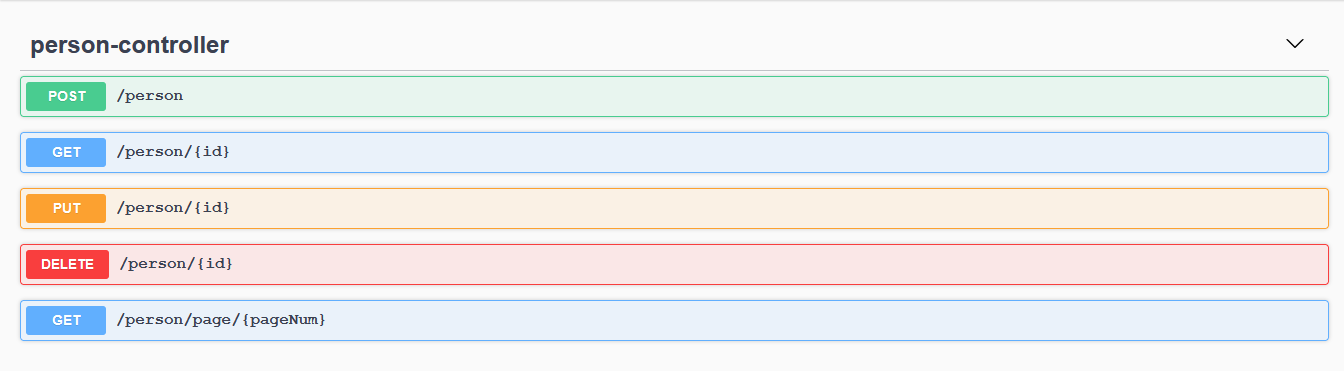
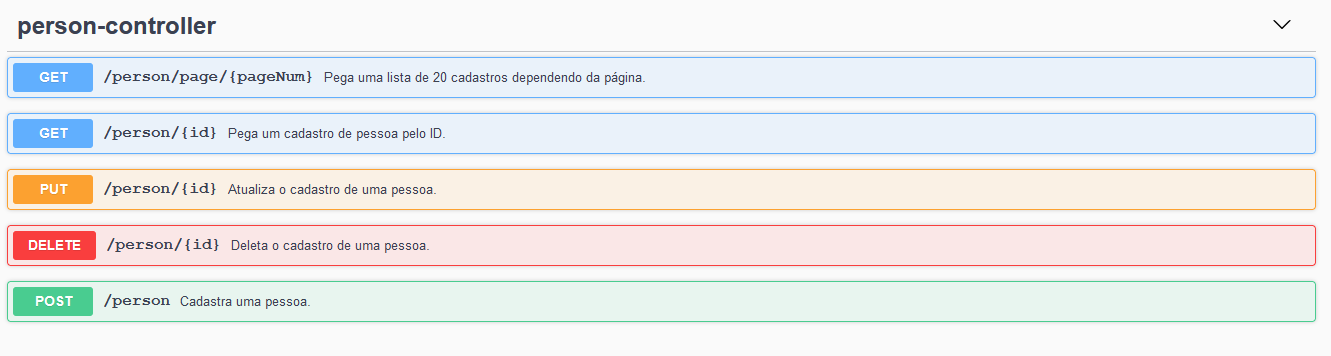
updating swagger-ui

diff --git a/src/main/java/com/dio/peopleapi/controller/PersonController.java b/src/main/java/com/dio/peopleapi/controller/PersonController.java
@@ -20,6 +20,8 @@ import com.dio.peopleapi.dto.request.PersonDTO;
 import com.dio.peopleapi.dto.response.MessageResponseDTO;
 import com.dio.peopleapi.service.PersonService;
 
+import io.swagger.v3.oas.annotations.Operation;
+
 @RestController
 @RequestMapping("/person")
 public class PersonController {
@@ -27,27 +29,32 @@ public class PersonController {
 	@Autowired
 	private PersonService personService;
 	
+	@Operation(summary = "Cadastra uma pessoa.")
 	@PostMapping
 	@ResponseStatus(value = HttpStatus.CREATED)
 	public MessageResponseDTO createPerson(@RequestBody @Valid PersonDTO personDTO) {
 		return personService.createPerson(personDTO);
 	}
 	
+	@Operation(summary = "Pega um cadastro de pessoa pelo ID.")
 	@GetMapping("/{id}")
 	public PersonDTO findById(@PathVariable Long id) {
 		return personService.findById(id);
 	}
 	
+	@Operation(summary = "Pega uma lista de 20 cadastros dependendo da página.")
 	@GetMapping("/page/{pageNum}")
 	public List<PersonDTO> getPage(@PathVariable Long pageNum) {
 		return personService.getPage(pageNum);
 	}
 	
+	@Operation(summary = "Deleta o cadastro de uma pessoa.")
 	@DeleteMapping("/{id}")
 	public MessageResponseDTO deleteById(@PathVariable Long id) {
 		return personService.deleteById(id);
 	}
 	
+	@Operation(summary = "Atualiza o cadastro de uma pessoa.")
 	@PutMapping("/{id}")
 	public MessageResponseDTO updateById(@PathVariable Long id, @RequestBody PersonDTO personDTO) {
 		return personService.updateById(id, personDTO);
